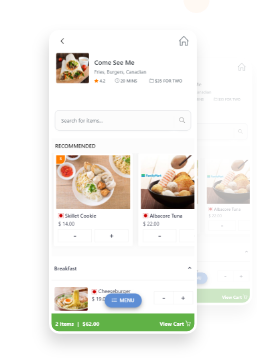
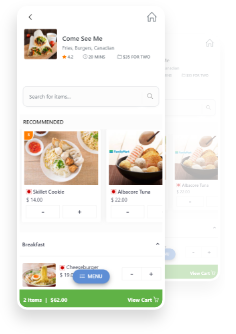
added components

diff --git a/resources/views/front/pages/products/restoma.blade.php b/resources/views/front/pages/products/restoma.blade.php
@@ -159,7 +159,43 @@
                             </li>
                         </ul>
                     </div>
-                    <img src="{{asset('images/products/RestoMa/full.png')}}" alt="" class="mx-auto lg:w-1/3 w-2/4">
+                    <img src="{{asset('images/products/RestoMa/Screenshot_2.png')}}" alt="" class="mx-auto lg:w-1/3 w-3/4">
+                </div>
+            </div>
+            <div class="grid lg:grid-cols-2 lg:gap-3 grid-cols-1 gap-5 mb-9 mt-4">
+                <div class="lg:flex block">
+                    <div clas="block">
+                        <h1 class="text-2xl">Delivery Location Section</h1>
+                        <ul class="mt-5 ml-10 list-outside list-disc bg-rose-200 text-lg leading-relaxed">
+                            <li class="leading-8 text-gray-800">
+                                {{ t('Autofill location with Google APIs Servet, C.') }}
+                            </li>
+                            <li class="leading-8 text-gray-800">
+                                {{ t('Manual fill addresses (Buliding, Flat)') }}
+                            </li>
+                            <li class="leading-8 text-gray-800">
+                                {{ t('Add tags for address (Work, Home)') }}
+                            </li>
+                        </ul>
+                    </div>
+                    <img src="{{asset('images/products/RestoMa/Screenshot_2.png')}}" alt="" class="mx-auto lg:w-1/3 w-2/4">
+                </div>
+                <div class="lg:flex block">
+                    <div clas="block">
+                        <h1 class="text-2xl">Stores Listing</h1>
+                        <ul class="mt-5 ml-10 list-outside list-disc bg-rose-200 text-lg leading-relaxed">
+                            <li class="leading-8 text-gray-800">
+                                {{ t('Promotional Sliders') }}
+                            </li>
+                            <li class="leading-8 text-gray-800">
+                                {{ t('Delivery and Self-Pickup') }}
+                            </li>
+                            <li class="leading-8 text-gray-800">
+                                {{ t('Listing stores based on users area') }}
+                            </li>
+                        </ul>
+                    </div>
+                    <img src="{{asset('images/products/RestoMa/Screenshot_1.png')}}" alt="" class="mx-auto lg:w-1/3 w-3/4">
                 </div>
             </div>
             <div>
